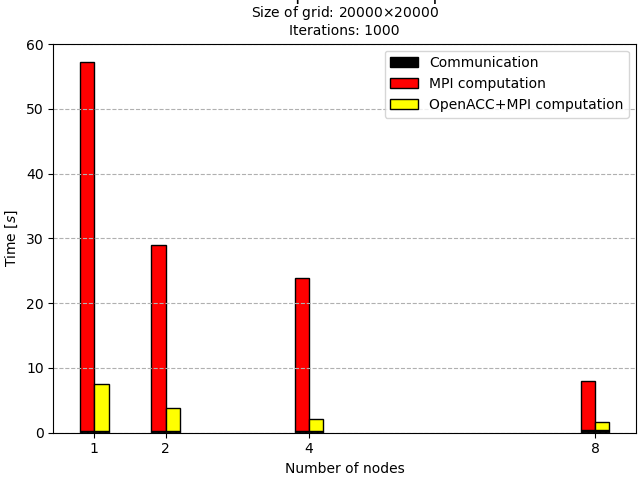
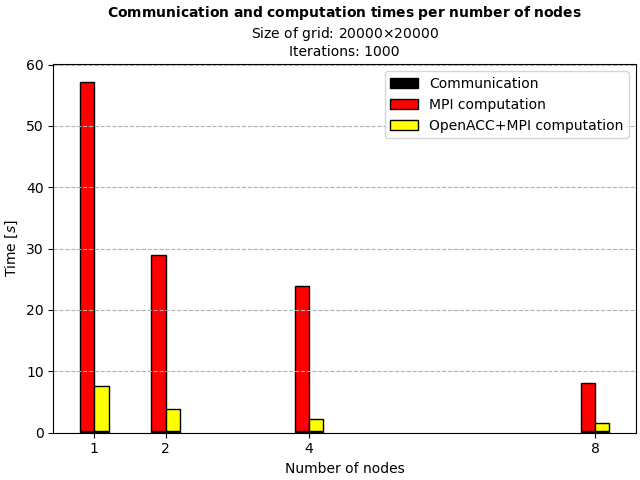
Adjusted plot titles

diff --git a/analysis/bar_plot.py b/analysis/bar_plot.py
@@ -64,9 +64,11 @@ for s in range(sections):
 	ax.set_xlabel("Number of nodes")
 	ax.legend(loc = "upper right")
 	ax.grid(linestyle = '--', axis = 'y')
-
-	title(f"Size of grid: {dim}"+r"$\times$"+f"{dim}\nIterations: {itr}", fontsize = 10)
-	suptitle('Communication and computation times per number of nodes', fontsize = 13, y = 1.03, x = 0.54)
+				
+	title(r"$\bf{Communication}$ $\bf{and}$ $\bf{computation}$ $\bf{times}$ $\bf{per}$" + \
+		  	r' $\bf{number}$ ' + r'$\bf{of}$ $\bf{nodes}$'+ f"\nSize of grid: {dim}"+r"$\times$"+ \
+	      f"{dim}\nIterations: {itr}", fontsize = 10)
+	      
 	savefig(f'analysis/{dim}_{itr}.png')
     # show()
 
